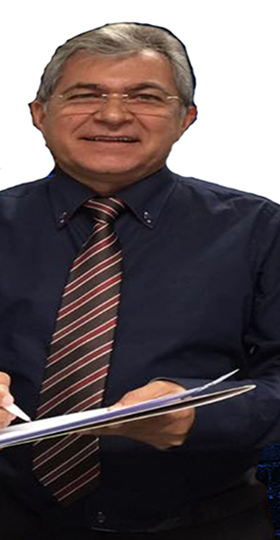
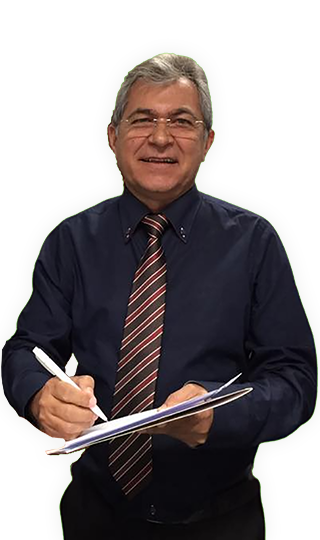
commit

diff --git a/css/quemsomos.css b/css/quemsomos.css
@@ -17,9 +17,9 @@
     height: 100%;
     padding: 0 20px 20px 20px;
 }.fas {color: #4589c9;}
-.sobre-edval{display:flex;max-height:420px;}.sobre{width:70%;}.sobre p{height:60%;}
+.sobre-edval{display:flex;max-height:420px;}.sobre{width:65%;}.sobre p{height: 60%;}
     button { 
-        margin: 2.5% auto auto auto;
+        margin: 25px auto auto auto;
         display: flex;
         justify-content: center;
         align-items: center;
@@ -34,7 +34,7 @@
         padding: 18px; 
         border: none;       
     }svg{margin-right:2.7%;}button:hover{background:#4fcf6d;}
-    .edval{width:30%;text-align:center;}.imagem-edval {width: 240px;height: 100%;}   /*IMAGEM DEVE SER 280px X 500px*/
+    .edval{width:35%;text-align:center;}.imagem-edval {width: 300px;height: 100%;}
 .sobre-parceiros{min-height:160px;}
 .seguradoras {
     display: flex;

diff --git a/quemsomos.html b/quemsomos.html
@@ -73,6 +73,9 @@
             <img class="imagem-seguradora" src="img/bradesco.png" alt="">
             <img class="imagem-seguradora" src="img/porto.png" alt="">
             <img class="imagem-seguradora" src="img/allianz.png" alt="">
+            <img class="imagem-seguradora" src="img/junto.png" alt="">
+            <img class="imagem-seguradora" src="img/berkley.png" alt="">
+            <img class="imagem-seguradora" src="img/maximus.png" alt="">
         </div>
     </article>
 <footer>
